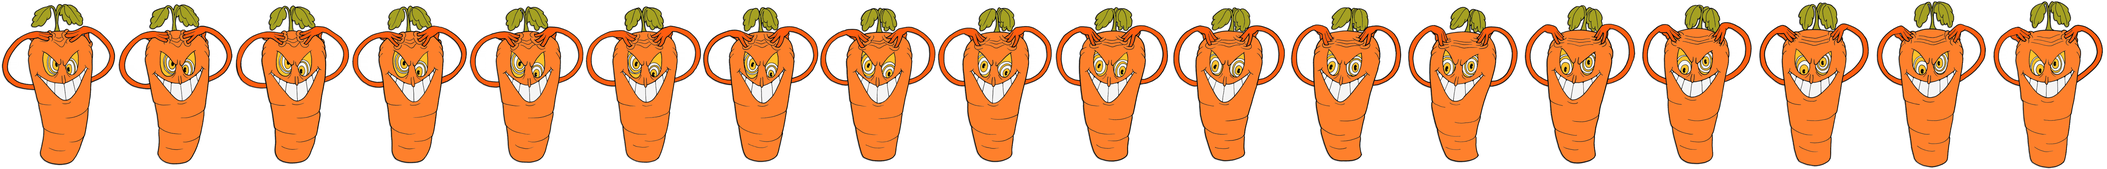
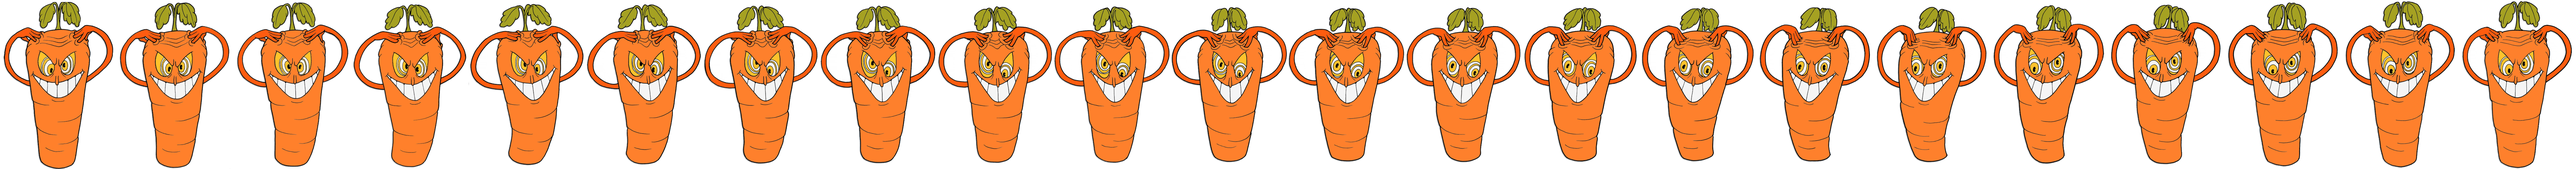
당근 공격 애니메이션 수정

diff --git a/Cuphead/Contents/Carrot.cpp b/Cuphead/Contents/Carrot.cpp
@@ -66,7 +66,7 @@ void ACarrot::DebugUpdate(float _DeltaTime)
 void ACarrot::RendererInit()
 {
 	CarrotRenderer->CreateAnimation("carrot_intro", "carrot_intro", 1 / 12.0f, false);
-	CarrotRenderer->CreateAnimation("carrot_idle", "carrot_idle.png", 1 / 12.0f, true);
+	CarrotRenderer->CreateAnimation("carrot_idle", "carrot_idle.png", 1 / 18.0f, true);
 	CarrotRenderer->CreateAnimation("carrot_idle_to_beam", "carrot_idle_to_beam.png", 1 / 12.0f, false);
 	CarrotRenderer->CreateAnimation("carrot_beam_body", "carrot_beam_body.png", 1 / 12.0f, true);
 	CarrotRenderer->CreateAnimation("carrot_beam_eye", "carrot_beam_eye.png", 1 / 12.0f, true);

diff --git a/Cuphead/Contents/CupheadCore.cpp b/Cuphead/Contents/CupheadCore.cpp
@@ -150,7 +150,7 @@ void UCupheadCore::LoadResources()
 		UEngineSprite::CreateCutting("onion_attack_destroy.png", 7, 1);
 		UEngineSprite::CreateCutting("onion_attack_pink_destroy.png", 6, 1);
 
-		UEngineSprite::CreateCutting("carrot_idle.png", 18, 1);
+		UEngineSprite::CreateCutting("carrot_idle.png", 22, 1);
 		UEngineSprite::CreateCutting("carrot_idle_to_beam.png", 9, 1);
 		UEngineSprite::CreateCutting("carrot_ground_intro.png", 16, 1);
 		UEngineSprite::CreateCutting("carrot_beam_body.png", 4, 1);
